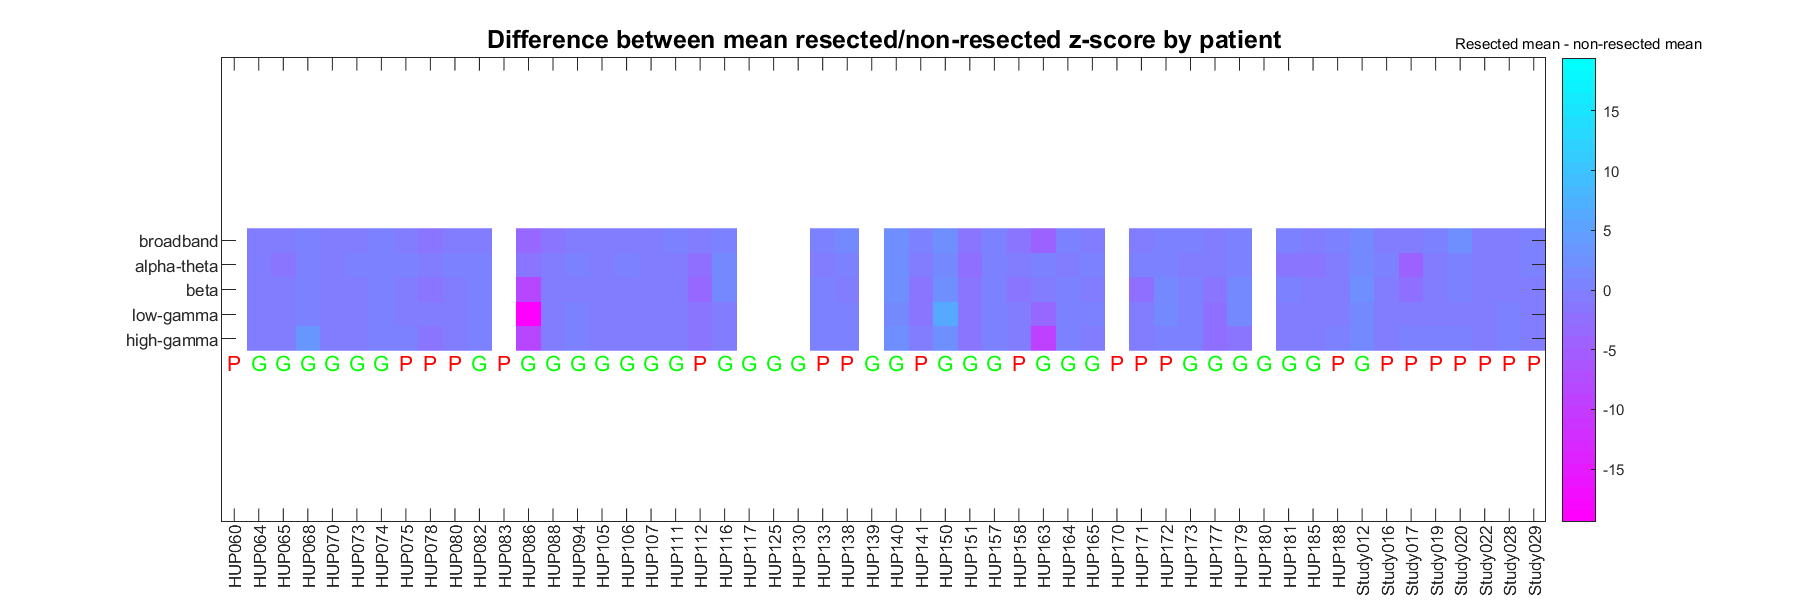
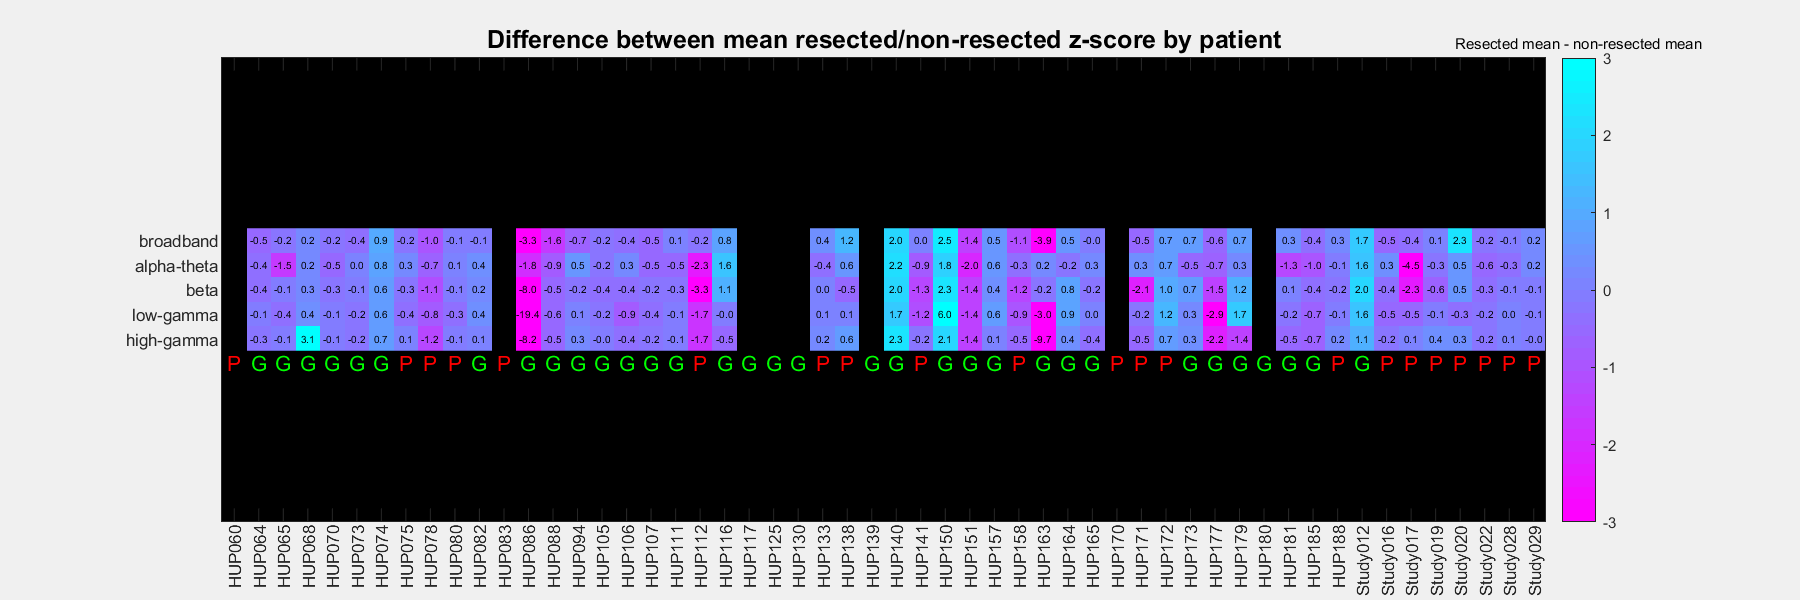
small fixes

diff --git a/analysis/create_project_figures.m b/analysis/create_project_figures.m
@@ -118,6 +118,13 @@ end
 
 fprintf('\nRegion list loaded.\n')
 
+% remove some variables from memory
+vars = {'all_inds','atlas_info','d','datapath','electrode_regions', ...
+    'Error','fi','fileID','folderpath','j','k','label','metadata', ...
+    'move_files'};
+clear(vars{:})
+clear('vars')
+
 %% generate csv file with patient demographics
 
 % get patients who have data
@@ -594,6 +601,17 @@ for test_band = 1:5
 end
 fprintf('\n')
 
+% remove some variables from memory
+vars = {'B','get_average_data','good_distances','good_means', ...
+    'good_plot_data','good_resected_plot_data','good_resected_z_score_mean', ...
+    'good_rows','good_variances','good_z_score_mean','h','line_length' ...
+    'mdl','outcomes','p','poor_distances','poor_means','poor_plot_data', ...
+    'poor_resected_plot_data','poor_resected_z_score_mean','poor_variances' ...
+    'poor_z_score_mean','predictors','s','save_name','screen_dims', ...
+    'stats','test_band','test_threshold','z_score_means','z_score_variances'};
+clear(vars{:})
+clear('vars')
+
 %% saving z-scores and z-score histograms on an individual basis
 fprintf('\n')
 
@@ -734,8 +752,6 @@ end
 
 alpha = 0.05;
 
-colormap(flip(parula(40)))
-
 set(0,'units','inches')
 screen_dims = get(0,'ScreenSize');
 figure_width = 12;
@@ -751,6 +767,7 @@ set(gca,'ytick',(1:5),'yticklabel',band_names)
 set(gca,'fontsize', 8)
 xtickangle(90)
 hcb = colorbar;
+colormap(flip(parula(40)))
 title(hcb,'Two-tailed p-value')
 title(sprintf('Mann-Whitney U test p-values for each band of each patient'),'fontsize',12)
 
@@ -781,14 +798,14 @@ lg = legend(h,'resected median > non-resected median','resected median < non-res
 set(lg,'color','w')
 
 save_name = sprintf('output/supplemental_figures/patient_p_values.png');
+fig.InvertHardcopy = 'off';
 saveas(fig,save_name) % save plot to output folder
 
 hold off
 
 % plot the difference between resected mean and non-resected mean
 
-colormap(flip(cool(40)))
-
+figure;
 fig = gcf;
 imagesc(distance,'AlphaData',~isnan(patient_p_values))
 set(gcf,'Units','inches','Position',[(screen_dims(3)-figure_width)/2, (screen_dims(4)-figure_height)/2, figure_width, figure_height])
@@ -799,9 +816,10 @@ set(gca,'ytick',(1:5),'yticklabel',band_names)
 set(gca,'fontsize', 8)
 xtickangle(90)
 hcb = colorbar;
+colormap(flip(cool(40)))
 
 bound = max(abs(distance),[],'all');
-caxis([-bound, bound]);
+caxis([-3, 3]);
 
 title(hcb,'Resected mean - non-resected mean')
 title(sprintf('Difference between mean resected/non-resected z-score by patient'),'fontsize',12)
@@ -810,7 +828,18 @@ title(sprintf('Difference between mean resected/non-resected z-score by patient'
 text(find(strcmp({all_outcome_patients(:).outcome},'good')),6*ones(1,sum(strcmp({all_outcome_patients(:).outcome},'good'))),'G','Color','g','HorizontalAlignment','center','fontsize',10)
 text(find(strcmp({all_outcome_patients(:).outcome},'poor')),6*ones(1,sum(strcmp({all_outcome_patients(:).outcome},'poor'))),'P','Color','r','HorizontalAlignment','center','fontsize',10)
 
+frmt = @(x) convertCharsToStrings(sprintf('%.1f',x));
+formatted_distance = arrayfun(frmt,distance);
+formatted_distance(strcmp(formatted_distance,'NaN')) = "";
+
+% add distance values to plot
+text(X(:),Y(:),formatted_distance(:),'HorizontalAlignment', 'center','VerticalAlignment', 'middle','fontsize',5,'Color',[0,0,0])
+
+h=gca;
+h.YAxis.TickLength = [0 0];
+
 save_name = sprintf('output/supplemental_figures/patient_differences.png');
+fig.InvertHardcopy = 'off';
 saveas(fig,save_name) % save plot to output folder
 
 %% plot logistic regression results
